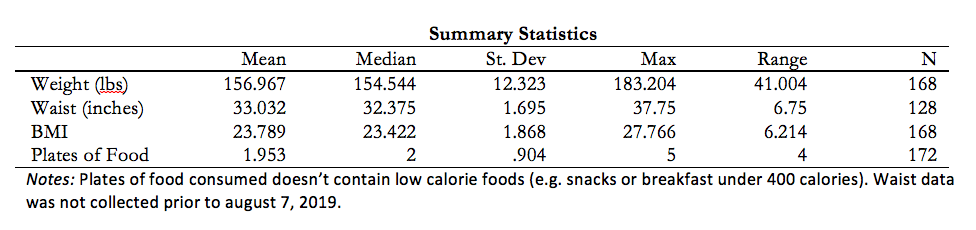
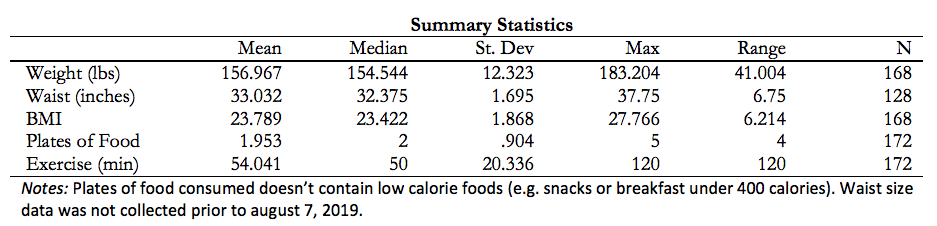
Update sum stats table and minor readme edits

Changed region(s): [[0.0, 0.0619, 0.9904, 0.9602]]

diff --git a/README.md b/README.md
@@ -32,11 +32,11 @@ Here is another set of less apples-apples comparison of full body photos.
 
 December 2018 (180+ lbs)             |  December 2019 (143 lbs)
 :-------------------------:|:-------------------------:
-![](/Figures/Hammad2018.jpg)  |  ![](/Figures/HammadDec2019.jpg)
+![](/Figures/Hammad2018.jpeg)  |  ![](/Figures/HammadDec2019.jpeg)
 
 # Mindset
-Although I am no expert in weight loss or fitness (e.g. no formal academic training) I imagine some people may benefit from knowing my mindset during this weight loss journey:
-* I made small changes over time to my regular routine (jump roping and cutting junk food) to transition into a healthier one.
+Although I am no expert in weight loss or fitness (i.e. no formal academic training) I imagine some people may benefit from knowing my mindset during this weight loss journey:
+* I made small changes over time to my regular routine (jump roping and cutting out junk food) to transition into a healthier one.
 * I didn't implement popular online weight loss tips that I didn't think were sustainable or worked with my schedule.
 * Weight/fat loss is not that complicated. Its as simple as eating less and moving more holding other factors constant.
 * My goals were based on moderate progression in weight loss and consistency in exercise rather than achieving a certain weight/physique at some future date.
